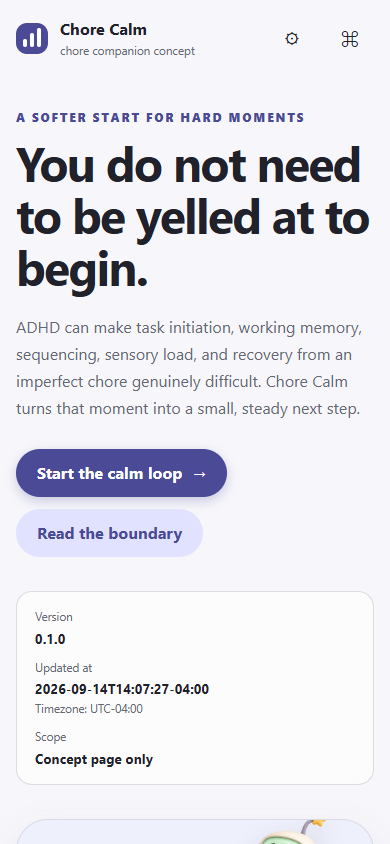
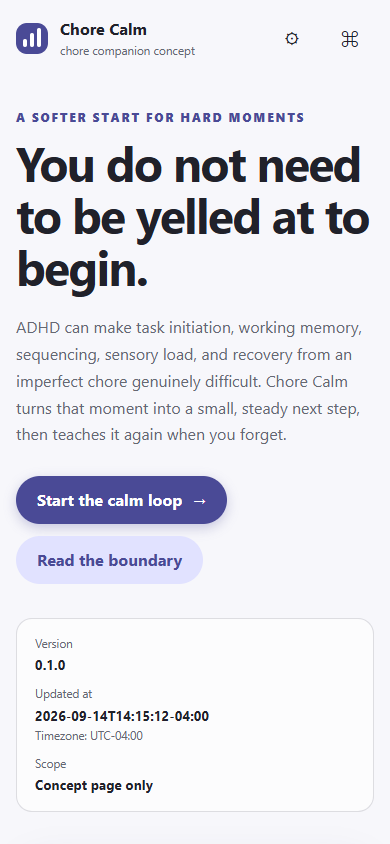
Refresh evidence for current public concept
Bind the promoted desktop, settings, and emulated-mobile captures to the current no-quota marketing copy and live deployment revision.

廣東話：將桌面、設定同模擬手機證據更新到目前嘅 no-quota marketing copy 同線上版本。

Changed region(s): [[0.0308, 0.4929, 0.7385, 0.6777], [0.0923, 0.7085, 0.5538, 0.955], [0.6462, 0.955, 0.8308, 1.0]]

diff --git a/evidence/headless/20260914/README.md b/evidence/headless/20260914/README.md
@@ -1,8 +1,8 @@
 # Built page evidence, 2026-09-14
 
 These captures were taken from the deployed Chore Calm page through the isolated cheap
-Lowlevel headless route. They are tied to deployment run `34878891295` and live provenance
-commit `d15f749ddbf21c302b27389cc4f545fd81fde4fd`.
+Lowlevel headless route. They are tied to deployment run `34879684887` and live provenance
+commit `cb8eddbe6a958e351aa17714818511a72f88664a`.
 
 The desktop and settings captures are whole-window PNGs from the hidden Edge window. The portrait
 capture is page-only CDP evidence with touch emulation, so it is labelled as emulated mobile
@@ -10,7 +10,7 @@ evidence rather than physical-device proof.
 
 | State | Tuple | Capture |
 | --- | --- | --- |
-| Hero with the Break it down story step and version provenance | 929 x 1004, scale 1, English, light | [desktop-1440x1000.png](desktop-1440x1000.png) |
+| Hero with the no-quota teaching copy and version provenance | 929 x 1004, scale 1, English, light | [desktop-1440x1000.png](desktop-1440x1000.png) |
 | Settings with language, tone, theme, narration, and local JSON controls | 929 x 1004, scale 1, English, light | [settings-1440x1000.png](settings-1440x1000.png) |
 | Narrow initial hero and provenance | 390 x 844, scale 1, touch-emulated, English, light | [mobile-390x844.png](mobile-390x844.png) |
 
